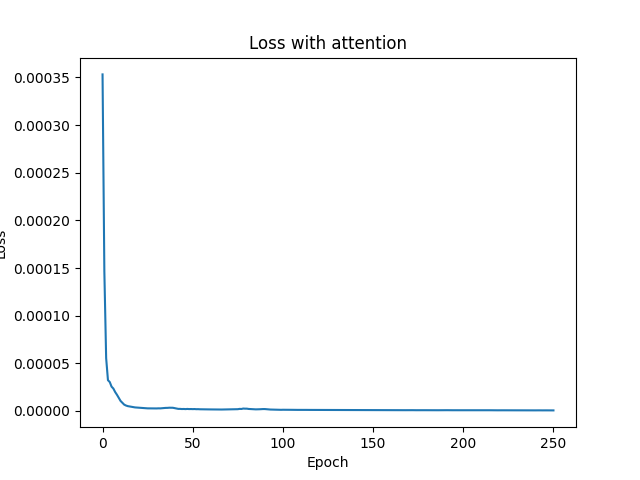
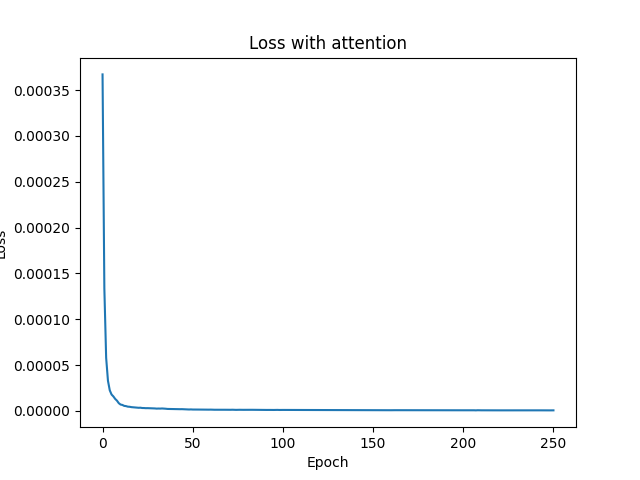
final images

diff --git a/COSC440_project_student_release_8May/graphs.py b/COSC440_project_student_release_8May/graphs.py
@@ -1,6 +1,6 @@
 import matplotlib.pyplot as plt
 import numpy as np
-filename = 'loss_w_resdense_only.txt'
+filename = 'loss_w_attn.txt'
 f = open(filename, 'r')
 lines = f.readlines()
 losses = []
@@ -19,26 +19,26 @@ loss_y= range(len(losses))
 simms_y= range(0, len(ssims)*10, 10)
 
 plt.plot(loss_y, losses)
-plt.title('Loss with resdense')
+plt.title('Loss with attention')
 plt.xlabel('Epoch')
 plt.ylabel('Loss')
 # plt.yticks(np.arange(0, .002, .0002))
-plt.savefig('loss_w_rd.png')
+plt.savefig('loss_w_attn.png')
 plt.show()
 plt.plot(simms_y, ssims)
 plt.yticks(np.arange(.2, .7, .1))
-plt.title('SSIM with resdense')
+plt.title('SSIM with attention')
 plt.xlabel('Epoch')
 plt.ylabel('SSIM')
-plt.savefig('ssim_w_rd.png')
+plt.savefig('ssim_w_attn.png')
 
 plt.show()
 plt.plot(simms_y, psnrs)
 plt.yticks(np.arange(10, 25, 2))
-plt.title('PSNR with resdense')
+plt.title('PSNR with attention')
 plt.xlabel('Epoch')
 plt.ylabel('PSNR')
-plt.savefig('psnr_w_rd.png')
+plt.savefig('psnr_w_attn.png')
 
 plt.show()
 
